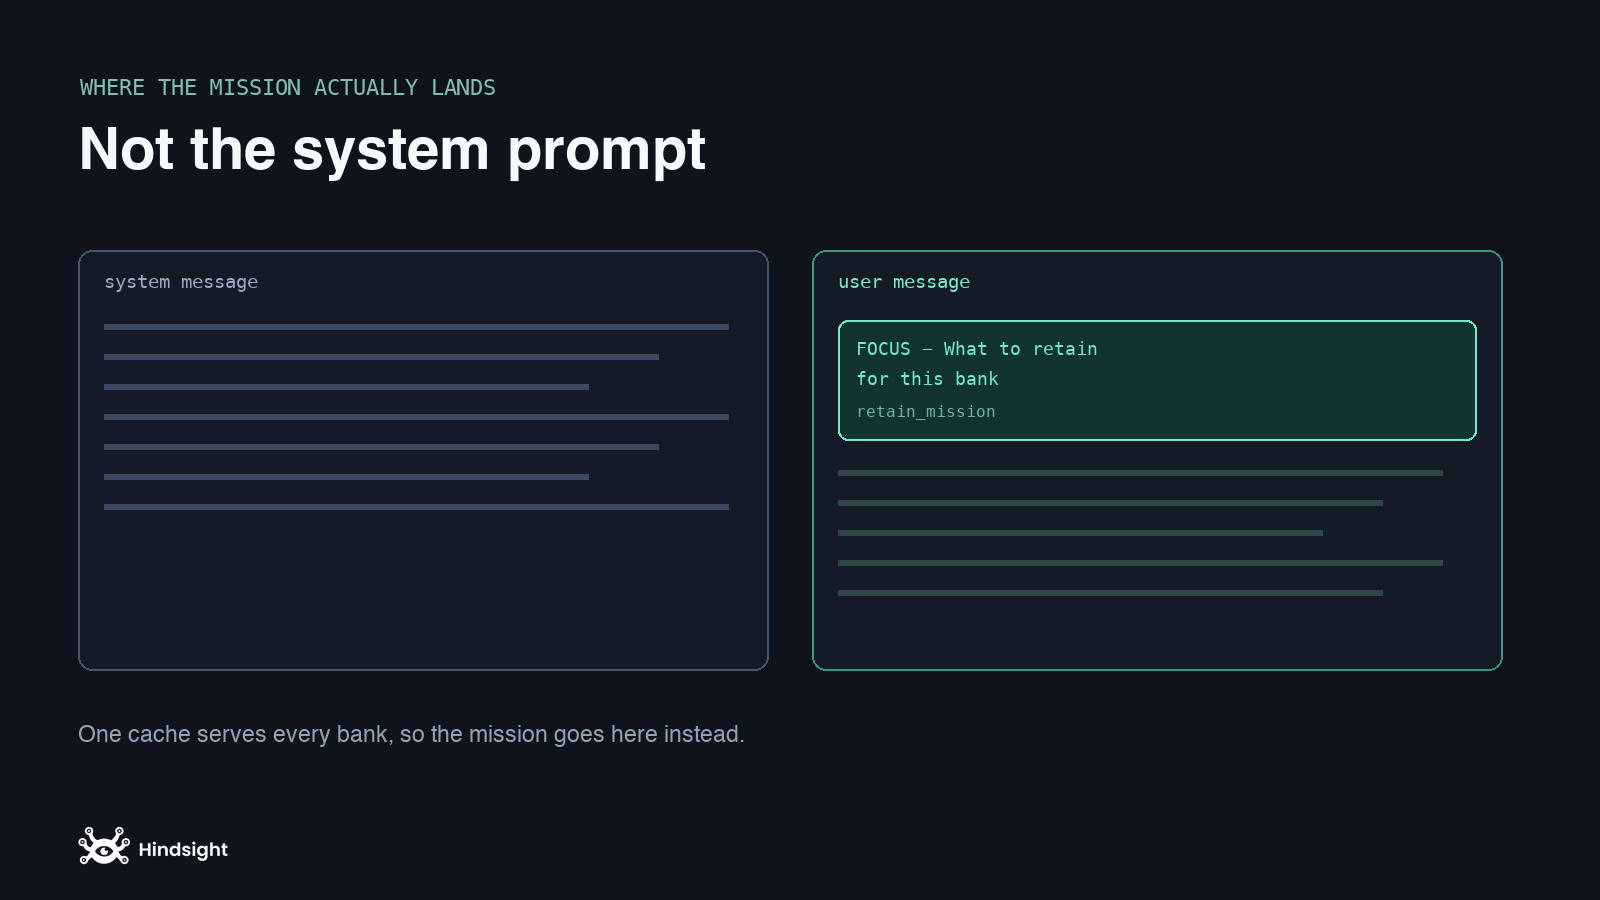
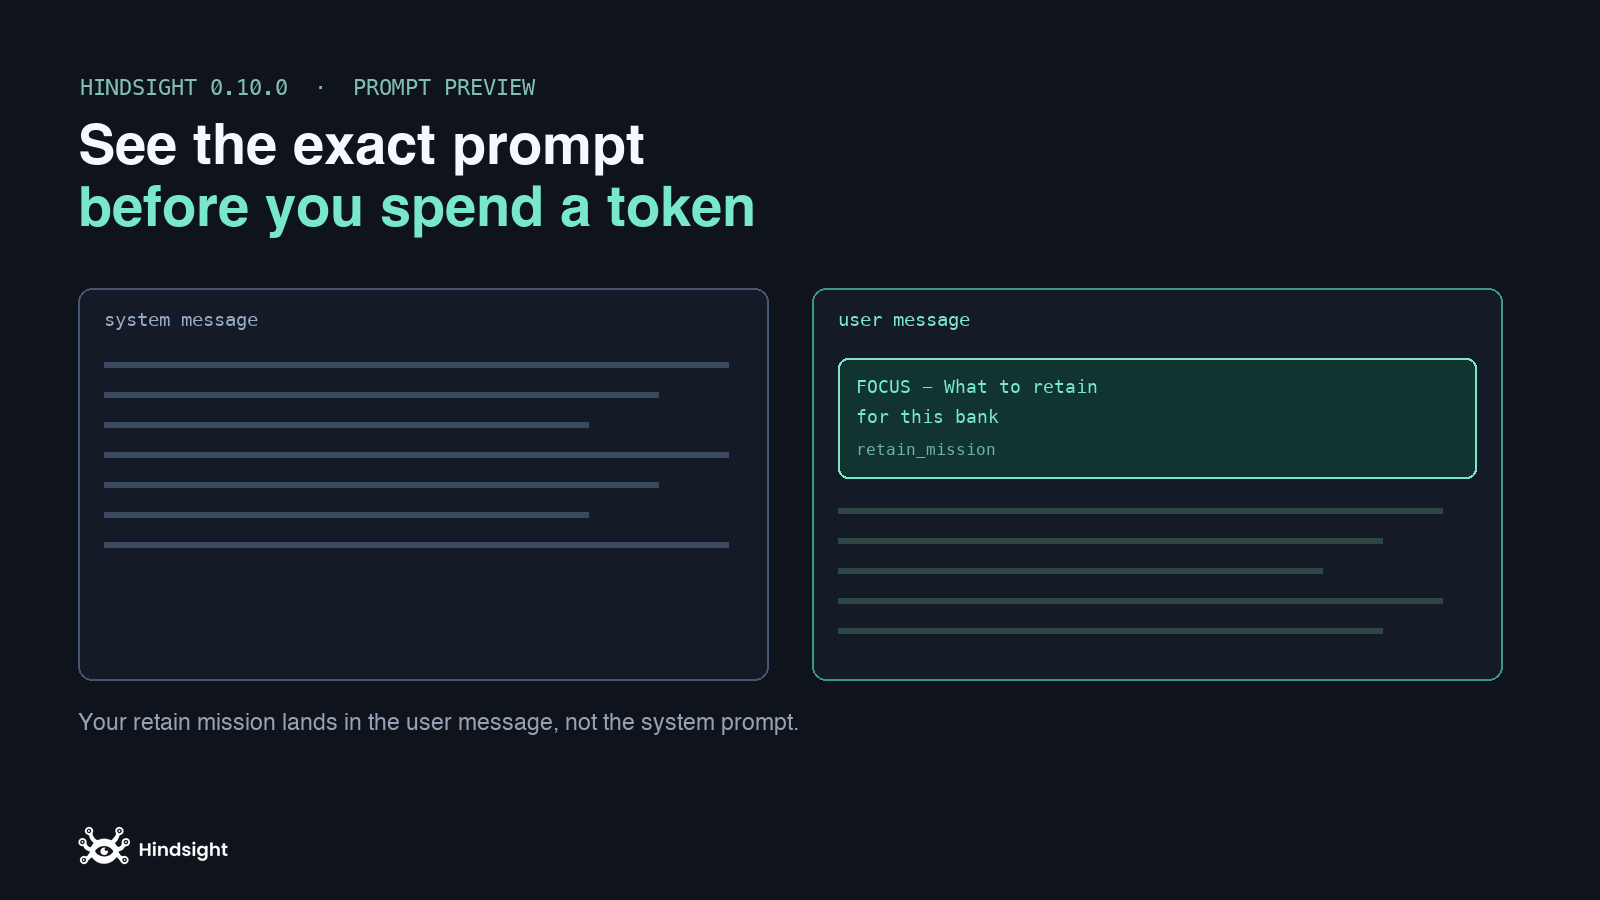
blog: retitle to See the Exact Prompt Before You Spend a Token
Cover headline updated to match; the two-message visual stays.

Claude-Session: https://claude.ai/code/session_01ED7KLomwzW1ywJcbrpEqve

diff --git a/hindsight-docs/blog/2026-09-17-prompt-preview.md b/hindsight-docs/blog/2026-09-17-prompt-preview.md
@@ -1,5 +1,5 @@
 ---
-title: "Your Mission Isn't in the System Prompt"
+title: "See the Exact Prompt Before You Spend a Token"
 authors: [benfrank241]
 slug: "2026/09/17/prompt-preview"
 date: 2026-09-17T14:00
@@ -9,7 +9,7 @@ image: /img/blog/prompt-preview.png
 hide_table_of_contents: true
 ---
 
-![The prompt preview endpoint, showing the blocks that make up a retain prompt](/img/blog/prompt-preview.png)
+![See the exact prompt an operation would send, split into the settings that produced it](/img/blog/prompt-preview.png)
 
 You write a mission for your memory bank. Something like "focus on billing decisions and who approved them." You save it, and the extraction gets better, or it doesn't.
 
